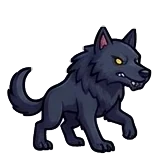
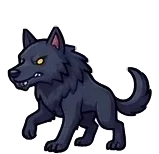
Quái thường quay mặt về phía cửa (lật 15 ảnh)

diff --git a/index.html b/index.html
@@ -900,7 +900,7 @@ function bedSVG(x, y, sc, l) {
     <text class="zz" x="46" y="4" font-size="13" fill="#fff" font-family="sans-serif">z z</text></g>`;
 }
 const NG_DOOR_MAX = 50, NG_GUN_MAX = 49, NG_BOSS_MAX = 25, NG_MON_MAX = 50;
-const pad2 = n => String(n).padStart(2, '0'), imgTag = (kind, n, x, y, w, h, cls = '') => `<image ${cls ? `class="${cls}" ` : ''}href="img/${kind}/${pad2(n)}.webp?v=2" x="${x}" y="${y}" width="${w}" height="${h}" preserveAspectRatio="xMidYMax meet"/>`;
+const pad2 = n => String(n).padStart(2, '0'), imgTag = (kind, n, x, y, w, h, cls = '') => `<image ${cls ? `class="${cls}" ` : ''}href="img/${kind}/${pad2(n)}.webp?v=3" x="${x}" y="${y}" width="${w}" height="${h}" preserveAspectRatio="xMidYMax meet"/>`;
 function doorSVG(x, y, l, hp, hit) {   // ảnh cửa 116×145 (vẽ bằng Flow), vết nứt vẽ đè lên theo máu
   const w = 76, h = 95, X = x - 6, Y = 90; let g = imgTag('door', Math.min(NG_DOOR_MAX, l), X, Y, w, h);
   if (hp < 0.55) g += `<polyline points="${X + 22},${Y + 14} ${X + 32},${Y + 38} ${X + 24},${Y + 56} ${X + 38},${Y + 82}" fill="none" stroke="#111827" stroke-width="2.5" stroke-linecap="round"/>`;
